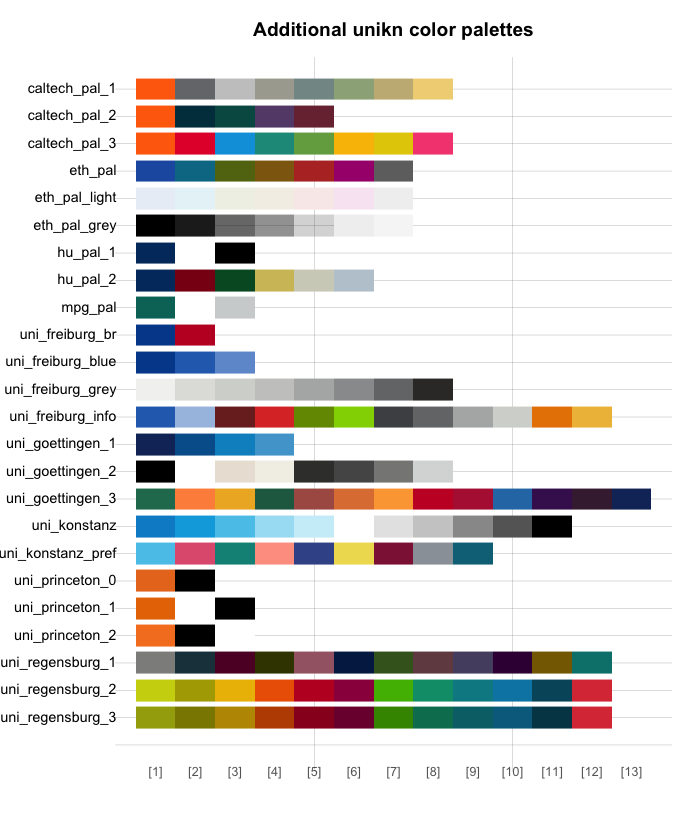
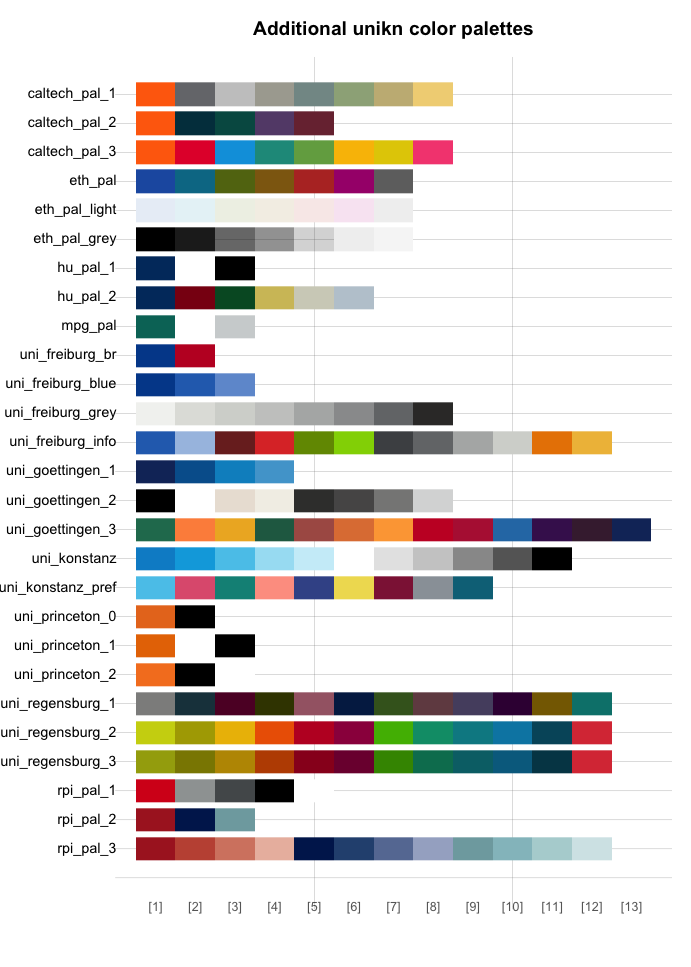
update after including new palettes

diff --git a/README.md b/README.md
@@ -107,7 +107,7 @@ The **unikn** contains two categories of color palettes:
 
 -   16 palettes implementing the colors of the [University of
     Konstanz](https://www.uni-konstanz.de/)’s corporate design
--   24 additional color palettes from various institutions
+-   27 additional color palettes from various institutions
 
 ### The colors of Konstanz University
 
@@ -212,8 +212,10 @@ color palettes of the following institutions:
     `uni_princeton_0`, `uni_princeton_1`, `uni_princeton_2`
 -   [University of Regensburg](https://www.uni-regensburg.de/):
     `uni_regensburg_1`, `uni_regensburg_2`, `uni_regensburg_3`
+-   [Rensselaer Polytechnic Institute](https://www.rpi.edu/):
+    `rpi_pal_1`, `rpi_pal_2`, `rpi_pal_3`
 
-<!-- -->
+<!-- Note: Duplicate image in vignette color_inst.Rmd -->
 
     # Inspect additional/alternative color palettes:
     seecol("add")
@@ -734,6 +736,6 @@ remain with their original creators:
 
 <!-- Footer: -->
 
-\[File `README.md` updated on 2022-11-30.\]
+\[File `README.md` updated on 2022-12-01.\]
 
 <!-- eof. -->
